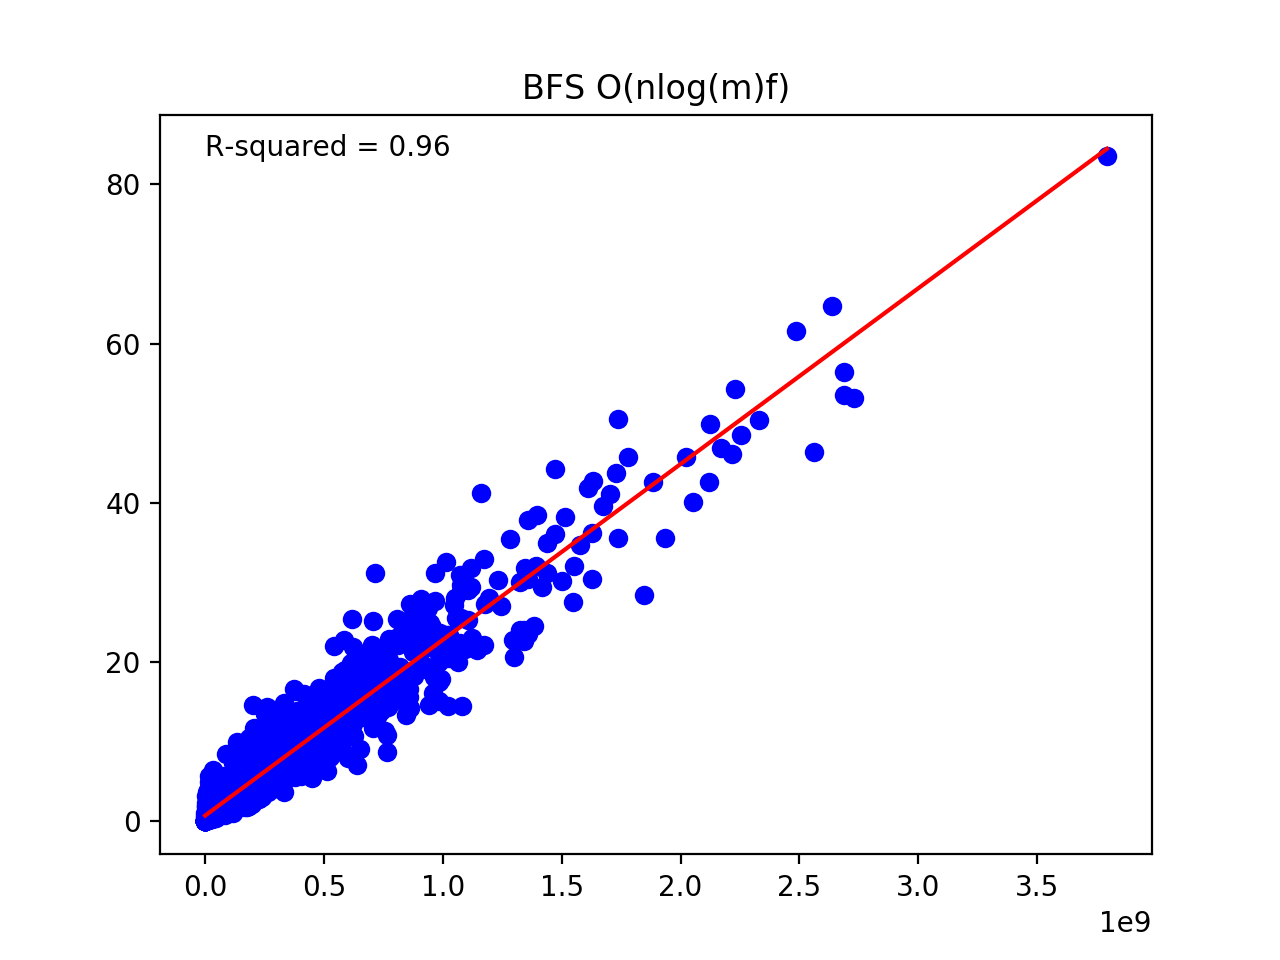
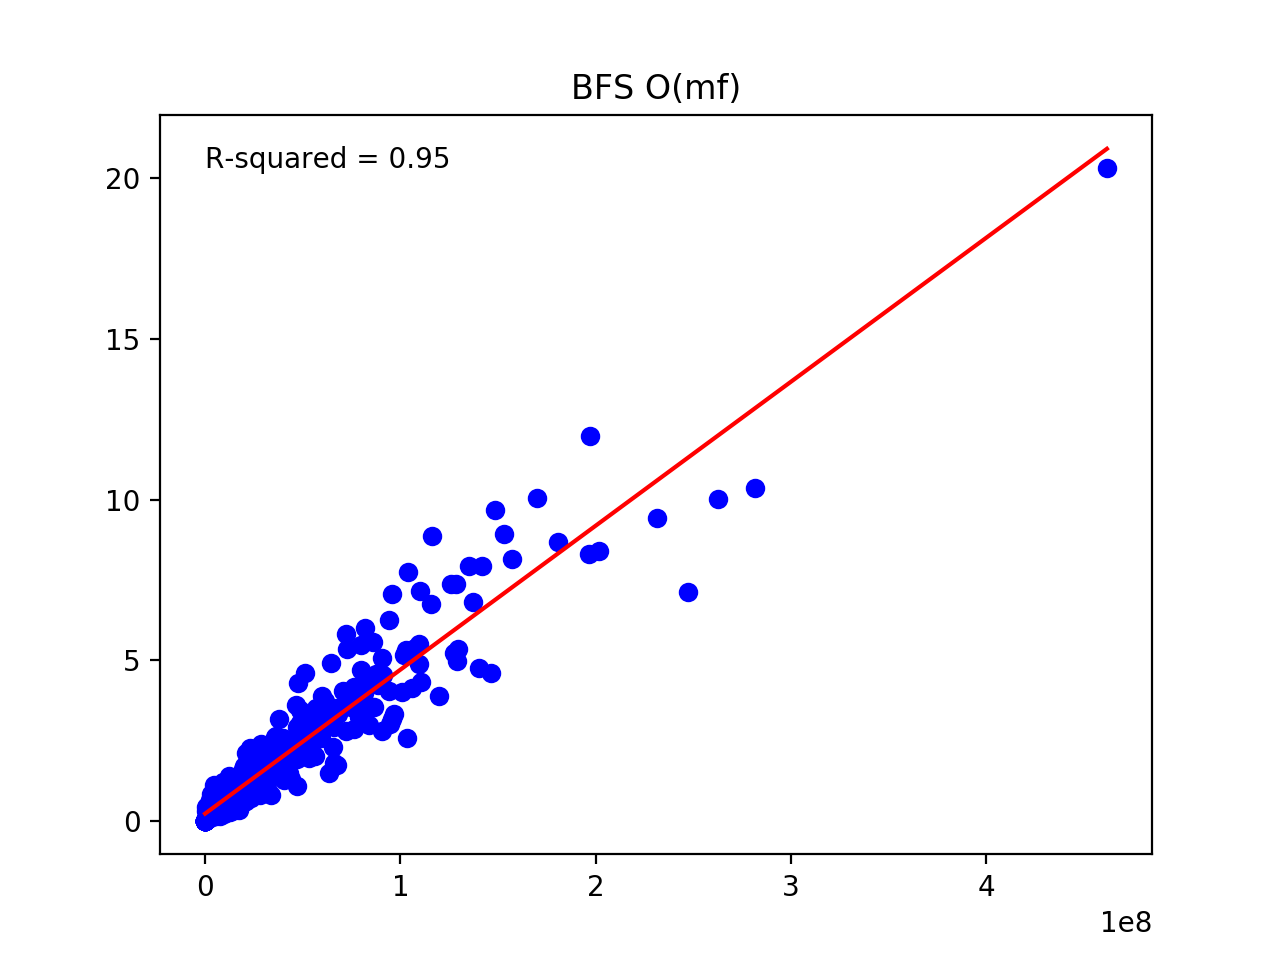
final push

diff --git a/generate_figures.py b/generate_figures.py
@@ -37,8 +37,8 @@ if __name__ == "__main__":
     # plt.hist(maxf)
     # plt.show()
     plt.show()
-    plt.title(f"{name} O(nm^2)")
-    x = numv * nume * nume
+    plt.title(f"{name} O(mf)")
+    x = nume * maxf
     gradient, intercept, r_value, p_value, std_err = stats.linregress(x, time)
     mn = np.min(x)
     mx = np.max(x)

diff --git a/README.md b/README.md
@@ -82,9 +82,11 @@ We know that the _bfs_path()_ algorithm runs in <img src="https://render.githubu
 our Ford-Fulkerson using it equivalent to Edmonds-Karp, which has time complexity
 of <img src="https://render.githubusercontent.com/render/math?math=O(nm^2)">.
 We however do not observe this behavior, and instead see a runtime of
-<img src="https://render.githubusercontent.com/render/math?math=O(nmf)">, which
+<img src="https://render.githubusercontent.com/render/math?math=O(mf)">, which
 is the same as normal Ford-Fulkerson. We are unsure why, since our BFS
 path-finding algorithm utilizes <img src="https://render.githubusercontent.com/render/math?math=O(n+m)"> time and thus should be equivalent to Edmonds-Karp.
+
+<div style="text-align:center"><img src=bfs_complexity.png width=400/></div>
 
 
 
